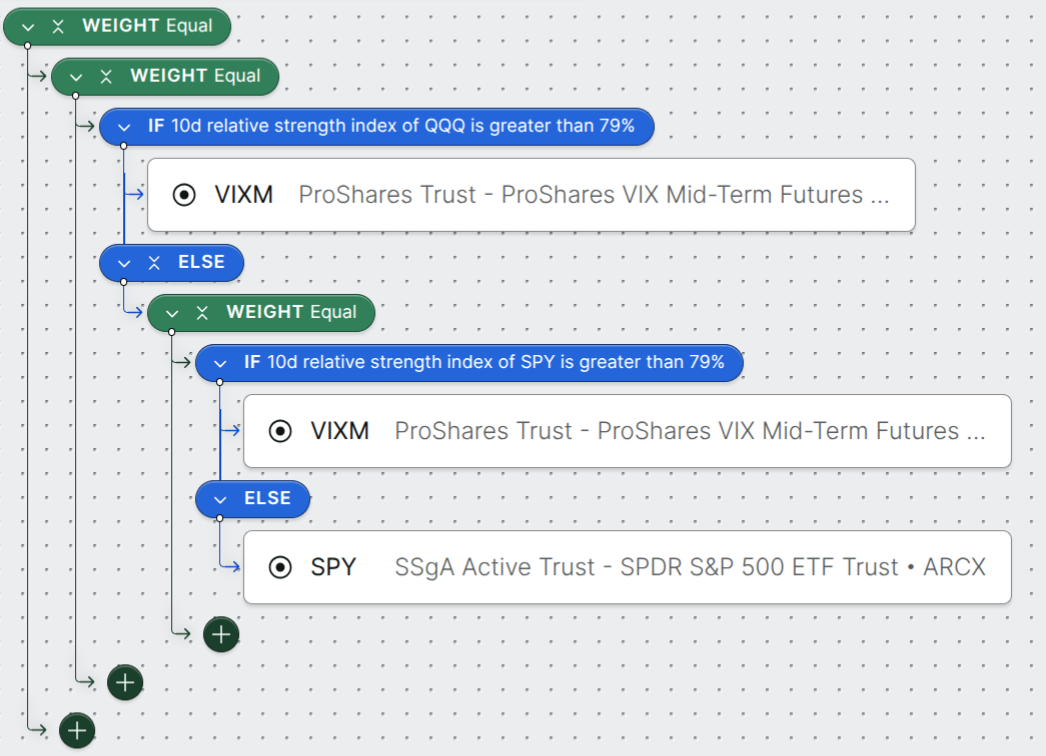
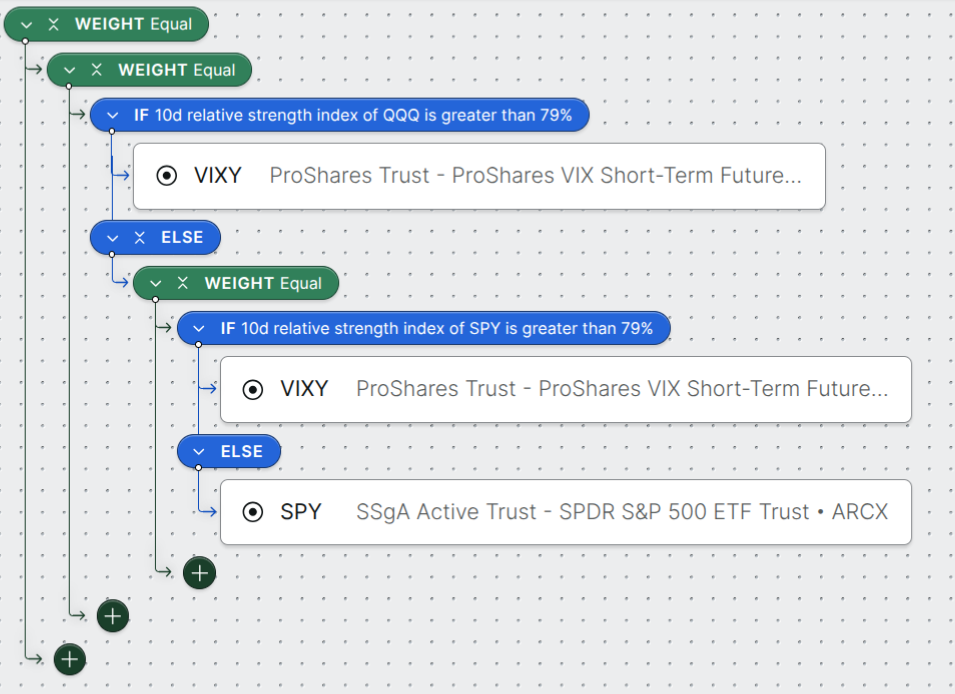
updated with algo trading blog

Changed region(s): [[0.0, 0.0, 0.9717, 0.9986], [0.0304, 0.0908, 0.0607, 0.121]]

diff --git a/src/app/blog/page.tsx b/src/app/blog/page.tsx
@@ -13,9 +13,7 @@ export default function WritingPage() {
           <BlogListing posts={posts} />
         </div>
         
-        <footer className="border-t border-gray-200 mt-32 py-16 text-center">
-          <p className="text-gray-600 text-3xl">Made with 🖤</p>
-        </footer>
+        <p className="text-gray-600 text-3xl text-center">Made with 🖤</p>
       </main>
     </>
   );

diff --git a/posts/algo-trading.md b/posts/algo-trading.md
@@ -5,9 +5,7 @@ date: "January 5, 2026"
 
 ## Disclaimer
 
-This is in no way financial advice, I'm just an overly risk-seeking 21-year old who's okay with losing a bit of his retirement money after watching a couple YouTube videos and has now convinced himself he can generate alpha. Please please please do not take this as financial advice. 
-
-Candidly, this project didn't even end perfectly, which is why I thought it'd be good to share since I'm hoping some of the lessons I learned might be helpful to others. 
+This is in no way financial advice, I'm just an overly risk-seeking 21-year old who's okay with experimenting with his retirement money. Please please please do not take this as financial advice. 
 
 ## Introduction 
 
@@ -15,7 +13,7 @@ In late August, 2025, I became interested in the concept of algorithmic trading.
 
 ## Strategies
 
-I've come to define strategies as deployments of hypotheses that people believe will make money in the market. The most popular strategy in recent history has been the buy-and-hold strategy where someone would buy a stable performer like the SNP and hold it for decades. 
+I've come to define strategies as deployments of hypotheses that people believe will make money in the market. The most popular strategy in recent history has been to buy-and-hold a stable performer like the SNP for long enough to realize the benefits of compound interest. 
 
 For me, this was always "enough" since I wasn't interested in hyper-optimizing my trading strategy. However, I've come to appreciate the idea that simple hypothesis can be powerful investmet strategies. For example, let's create a combined strategy with the two following governing hypothesis: 
 
@@ -26,18 +24,52 @@ While seemingly simple, I want to show that these hypothesis can be combined to 
 
 ## Development
 
-Now that we have these initial hypotheses, we need to develop and backtest a strategy. For the first hypothesis (commonly referred to as mean reversion), the intuition is similar to the biological concept of "homeostasis". When a stock is overbought, the market will tend to frantically buy and sell the stock as individual players attempt to gain profit. During this process, the value of the volatility (VIXM) will increase. So, if we believe that any commonly bought stocks are overbought, we should buy VIXM. 
+Now that we have these initial hypotheses, we need to develop and backtest a strategy. For the first hypothesis (commonly referred to as mean reversion), the intuition is similar to the biological concept of "homeostasis". When a stock is overbought, the market will tend to frantically buy and sell the stock as individual players attempt to gain profit. During this process, the value of the volatility (VIXY) will increase. So, if we believe that any commonly bought stocks are overbought, we should buy VIXY. In thise case, let's track SPY (S&P 500) and QQQ (Nasdaq 100) as our "commonly bought" stocks.
 
-For our second hypothesis, we will simply buy SPY during normal market conditions (anytime the market is not overbought). I also want to pose a recent thought I had where many refer to the SNP (or S&P 500) as a representation of the overall market, whereas I've come to better understand it as a measure of how centralized wealth has become in the market into the top 500 companies. Not sure where this idea sits between radically wrong or a broken record, but just wanted to share since I hadn't heard it before. 
+For our second hypothesis, I pose that as the wealth centralizes in the market, the top 500 companies will grow faster than the rest of the market. Thus, we will simply buy SPY during normal market conditions (anytime the market is not overbought). And that's it! This simple, rule-based logic is all we need to develop a strategy from our initial hypotheses. 
 
-## Trading Platforms 
+## Backtesting 
 
-For backtesting, you can create your own trading platform or use one of the many publicly available options. Personally, my friend told me about [Composer](https://www.composer.trade), which which allows you to backtest your own strategy as well as view the community's strategies for free. It's a simple, no-code way to start. Here is what the strategy I outlined above looks like on Composer:
+While we have a strategy, we have no idea how well it performs in the market. Backtesting is our way of deploying our strategy retroactively using historical data. For backtesting, you can create your own trading platform or use one of the many publicly available options. Personally, my friend told me about [Composer](https://www.composer.trade), which which allows you to backtest your own strategy as well as view the community's strategies for free. Here is what the strategy I outlined above looks like on Composer:
 
 <div style={{ textAlign: 'center' }}>
-  <img src="/assets/composer.png" alt="Composer Screenshot" style={{ width: '50%' }} />
+  <img src="/assets/composer.png" alt="Composer Screenshot" style={{ width: '70%' }} />
 </div>
 
-## Editor's Note 
+And, when backtested, it looks like this with it's pretty graph and accompanying, informative tables (note that the green line is our strategy, the red line is the SPY performance over the same time period):
 
+<div style={{ textAlign: 'center' }}>
+  <img src="/assets/backtest_graph.png" alt="Composer Backtest Screenshot" style={{ width: '70%' }} />
+</div>
+
+The main values I look at are the annualized return, the max drawdown, and the Sharpe ratio,. The annualized return is the percentage of your investment that you'd expect to return over the course of a year. The max drawdown is the largest percentage loss you could experience over the backtesting period (in this case, back until January 4th, 2011). And the Sharpe ratio is a measure of risk-adjusted return. The goal is to maximize the annualized return and Sharpe ratio, while minimizing the max drawdown. In this case, our simple strategy acheives a annualized return of 31.3% when compared to the SPY's return of 14.0%, and a Sharpe ratio of 1.34 when compared to the SPY's Sharpe ratio of 0.85. The max drawdown between the strategies is comparable with teh SPY's max drawdown of 33.7% and ours of 33.3%. 
+
+To drive the point home, $10,000 put into the SPY on January 4th, 2011 would have grown to $70,790.55. On the other hand, our strategy would have grown to $587,606.58 over the same period.
+
+This is all to say that our strategy is as "stable" as the SPY, but with a much higher annualized return. So, if we're happy with our strategy and backtests, we can now move onto deployment. 
+
+## Deployment 
+
+When deploying, I hit many roadblocks that I've condensed into the following lists
+
+What Worked: 
+* yfinance for market data: platform-agnostic and easy to use 
+* IBKR for manual trades: allows fractional orders and low settling times
+
+What Didn't Work: 
+* IBKR: didn't allow fractional orders through API 
+* Schwab Trader API: didn't allow fractional orders through API
+* Alpaca: no ROTH IRA for individual developers
+
+There were many platform-specific headaches and in the end, the easiest system seems to simply be getting the correct trade to make from Composer, and then executing the trade manually through IBKR. I will be using this for the foreseeable future as there are other projects I want to get into and this 
+
+## Lessons 
+
+Decouple your systems. When I first started, I tried to request data and execute trades on the same platform (I started on Schwab Trader API), however, switching to using yfinance for market data gave me a platform-agnostic strategy module. This meant that I only needed to modify the trader module to execute trades through the chosen platform. 
+
+Don't wait, it takes less time than you think. This is contradictory to Hofstadter's Law which states: "It always takes longer than you expect, even when you take into account Hofstadter's Law". I agree that the overall timeline usually takes longer, but the work itself is often less intimidating than just starting. In my case, it was probably a week's worth of intentional effort to prototype, backtest, and deploy a strategy (including all of the deployment headaches and experimentation). However, I kept bleeding time between the different parts of the process and it took be around 4 months instead.
+
+## Lessons 
+
+I'd like to end by noting that I didn't deploy the strategy that I outlined above. I had some fun with prototyping different strategies and I encourage you to do the same. When I said "intentional effort", I mean to spend a lot of time critically thinking and intentionally working on the problem, please do not lose months on a project that could have been done in days. 
 
